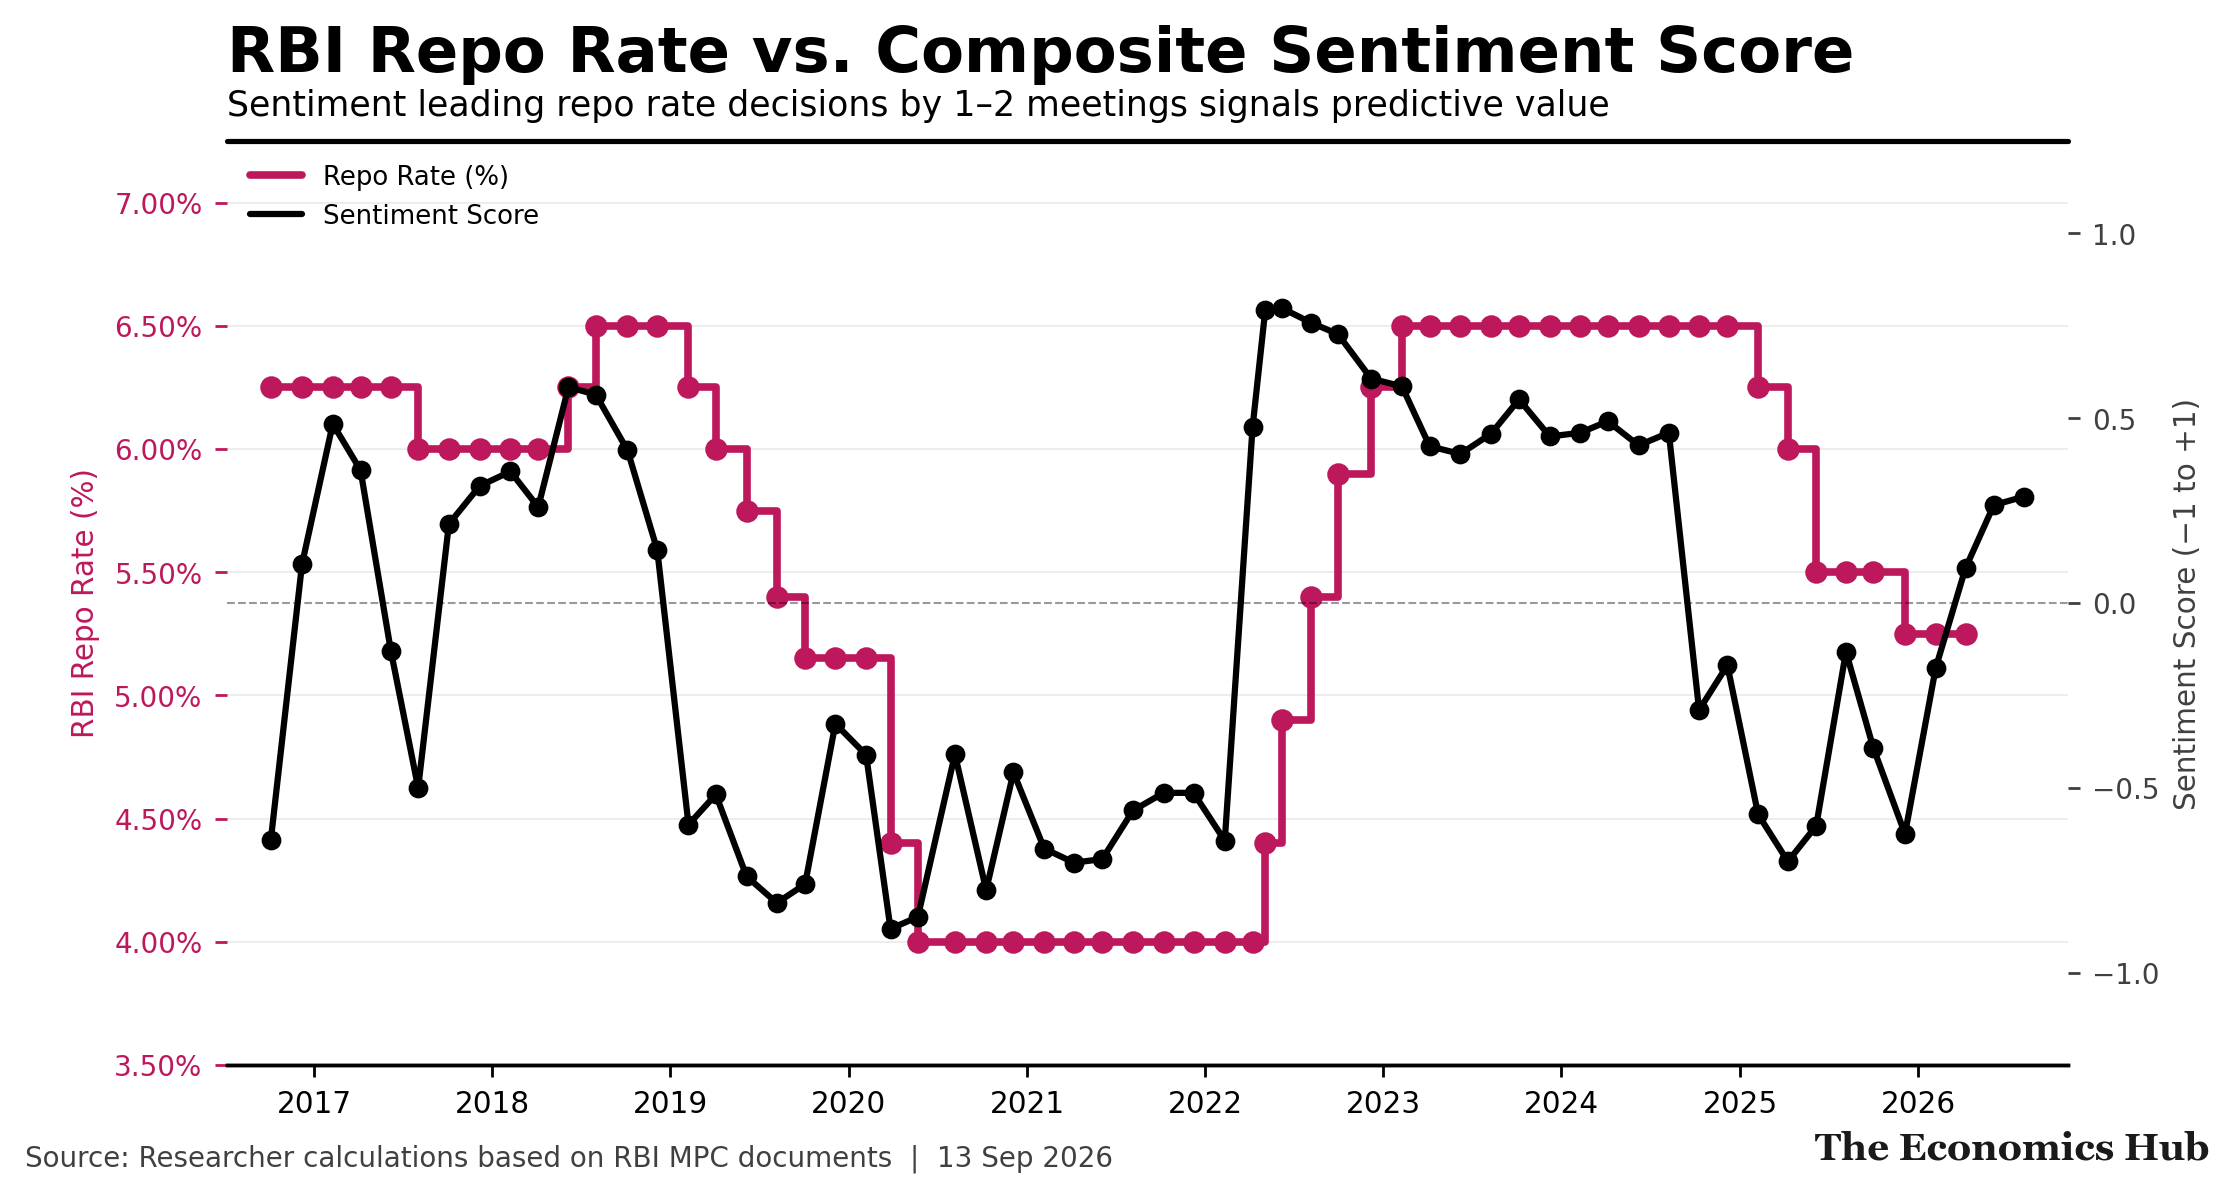
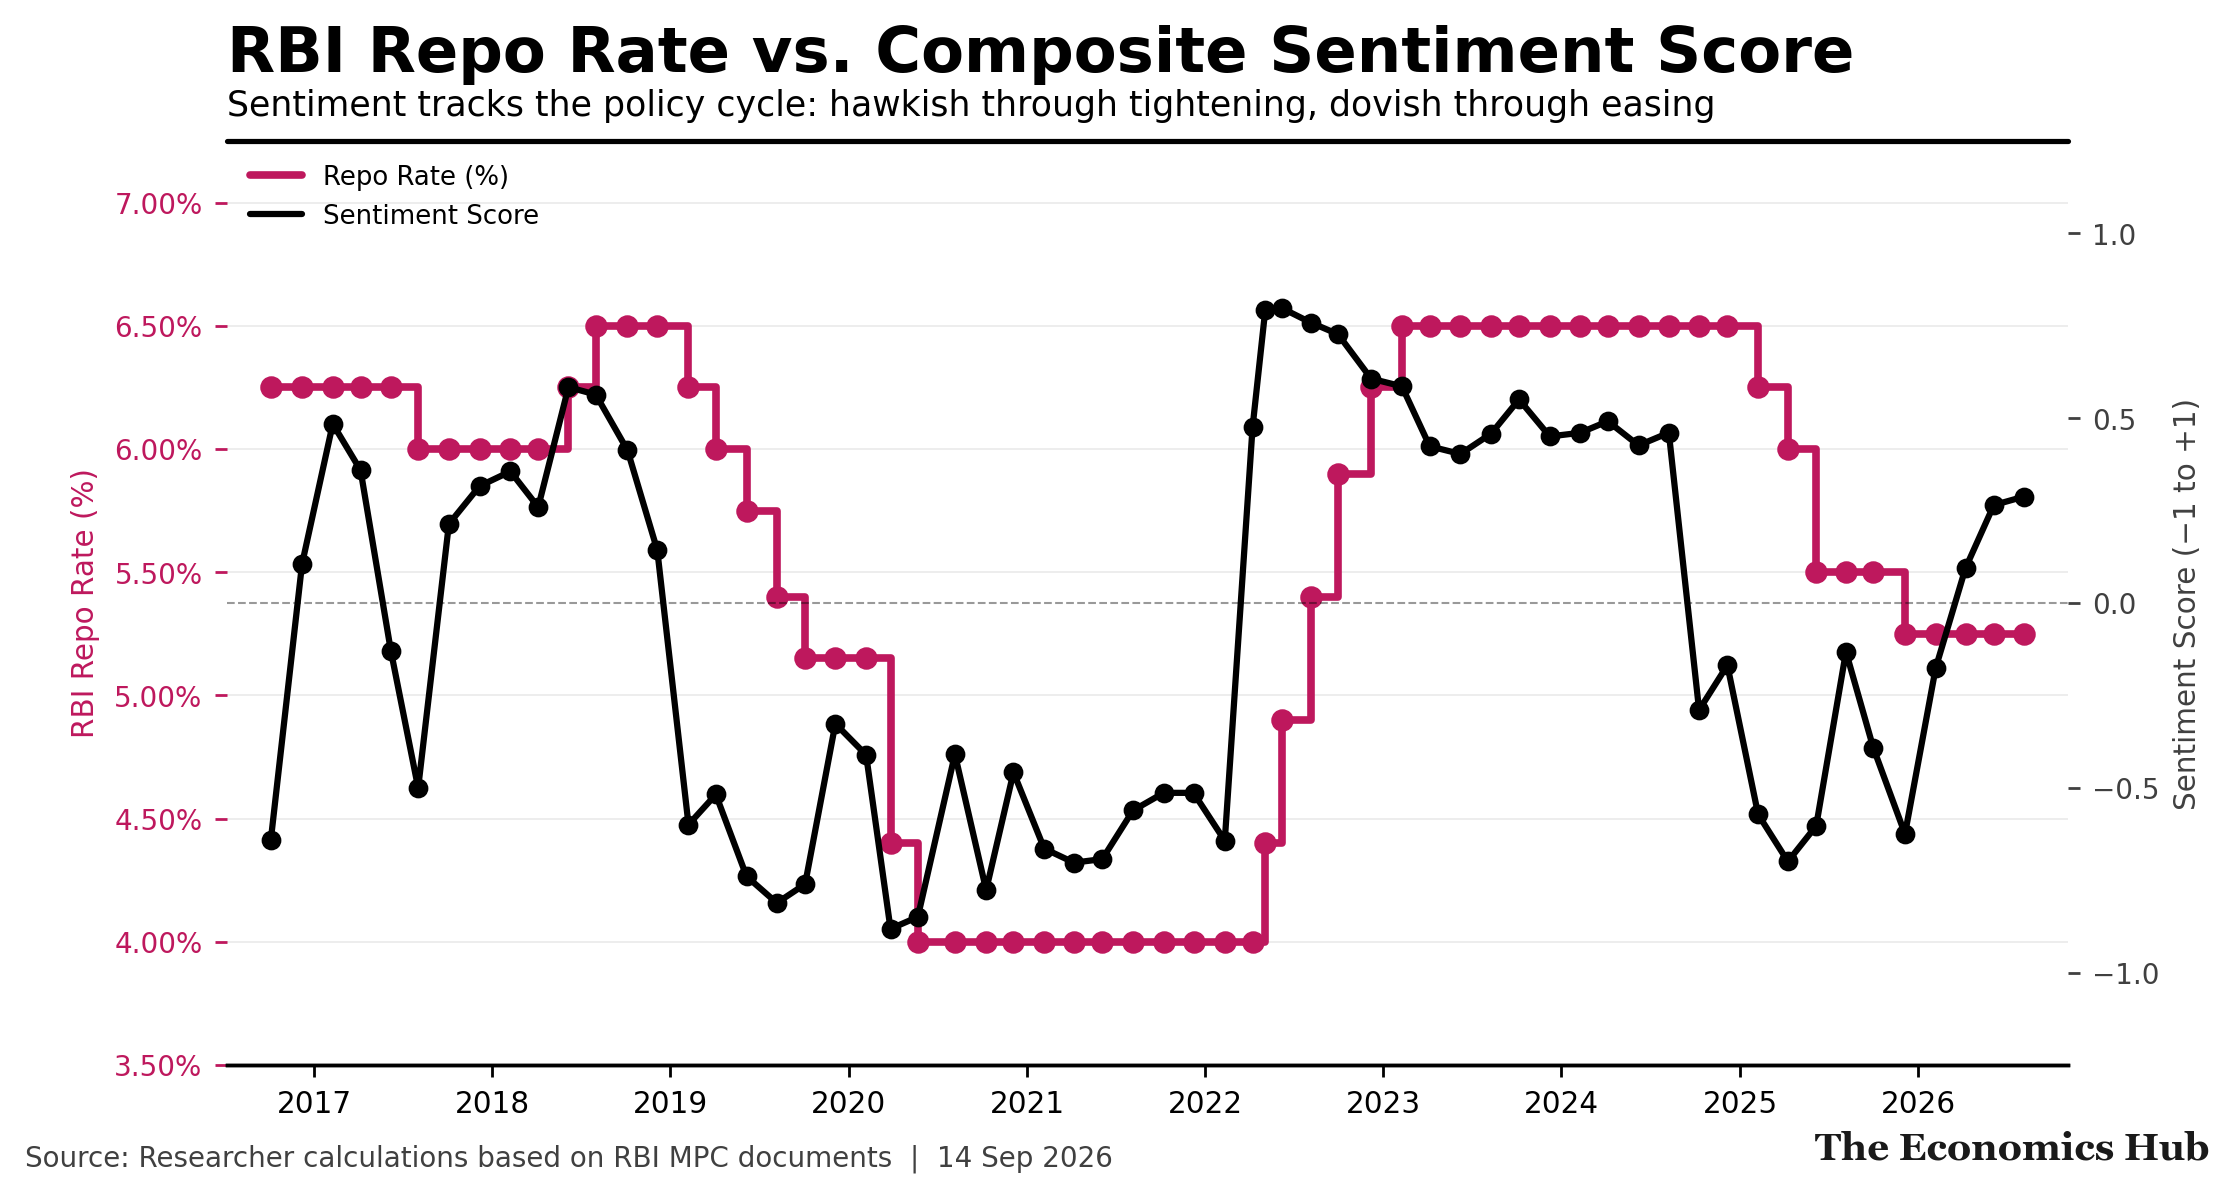
fix(rbi): regenerate stale charts, publish with a data fingerprint
Charts 05 and 06 were drawn before the June and August 2026 holds were
seeded: the repo rate line stopped at April 2026 and the last two timeline
dots rendered in the "no data" grey. All six charts are regenerated from
the current database.

Staleness can no longer go unnoticed
  run_generate_charts now copies the images into assets/rbi_sentinel/ (the
  folder the app and Streamlit Cloud read; ASSETS_DIR was imported but the
  copy was manual) and writes .data_fingerprint, a SHA-256 of every value
  the charts are drawn from (db.chart_data_fingerprint).
  seed_rbi_rates.py calls refresh_charts_if_stale() after seeding, so a new
  rate decision regenerates and republishes the charts in the same step.
  tests/test_rbi_charts_current.py fails if the published fingerprint does
  not match the database.

Chart 05
  Subtitle said sentiment leading decisions by 1-2 meetings "signals
  predictive value". Tested against the stated stance with HAC regressions
  and out-of-sample forecasts, it does not. Now: "Sentiment tracks the
  policy cycle: hawkish through tightening, dovish through easing". The
  insight text is rewritten to match and no longer describes shaded bands
  the chart does not have.

Changed region(s): [[0.1852, 0.0618, 0.7718, 0.1235], [0.8644, 0.525, 0.9262, 0.5559]]

diff --git a/rbi_sentinel/pipeline.py b/rbi_sentinel/pipeline.py
@@ -6,6 +6,7 @@ Called by generate_rbi_sentinel.py. Not invoked directly.
 """
 
 import logging
+import shutil
 import sqlite3
 from collections import Counter
 from datetime import datetime, date
@@ -581,3 +582,52 @@ def run_generate_charts(
     # number with itself and the divergence was damped by construction.
 
     log.info("Charts saved to %s", output_dir)
+    _publish_charts(output_dir)
+
+
+# ── Chart freshness ─────────────────────────────────────────────────────────────
+
+FINGERPRINT_FILE = ".data_fingerprint"
+
+
+def _publish_charts(output_dir: Path) -> None:
+    """
+    Copy freshly generated charts into assets/ — the folder the dashboard and
+    Streamlit Cloud read — and stamp them with the data fingerprint.
+
+    RBI charts have no CI workflow, so this copy used to be manual; forgetting
+    it left the dashboard on old images even after a regeneration.
+    """
+    target = ASSETS_DIR / output_dir.name
+    target.mkdir(parents=True, exist_ok=True)
+    for png in sorted(output_dir.glob("*.png")):
+        shutil.copy2(png, target / png.name)
+    stamp = db.chart_data_fingerprint()
+    for folder in (output_dir, target):
+        (folder / FINGERPRINT_FILE).write_text(stamp + "\n")
+    log.info("Published charts to %s (fingerprint %s)", target, stamp[:12])
+
+
+def latest_published_charts() -> Optional[Path]:
+    """The newest month folder under assets/rbi_sentinel, which the app shows."""
+    folders = sorted(p for p in ASSETS_DIR.glob("20[0-9][0-9]-[01][0-9]") if p.is_dir())
+    return folders[-1] if folders else None
+
+
+def charts_are_current() -> bool:
+    """True when the published charts were drawn from the data now in the DB."""
+    folder = latest_published_charts()
+    if folder is None:
+        return False
+    stamp = folder / FINGERPRINT_FILE
+    return stamp.exists() and stamp.read_text().strip() == db.chart_data_fingerprint()
+
+
+def refresh_charts_if_stale(mode: str = "dashboard") -> bool:
+    """Regenerate and publish the charts if the data has changed. Returns True if it did."""
+    if charts_are_current():
+        log.info("Charts are current; no regeneration needed")
+        return False
+    log.warning("Chart data has changed since the charts were published; regenerating")
+    run_generate_charts(mode=mode)
+    return True

diff --git a/config/insights.py b/config/insights.py
@@ -523,19 +523,19 @@ the committee is approaching a forced pivot: watch for a Resolution score revers
 """,
 
     "rbi_rate_and_sentiment": """\
-**How to read this chart:** The left axis (saffron step line) tracks the RBI repo rate over time. \
-The right axis (black smooth line) tracks the composite sentiment score derived from the MPC \
-documents. Shaded bands identify hawkish (red) and dovish (blue) sentiment regimes. The purpose \
-of overlaying these two series is to test whether the sentiment model leads or lags the actual \
-rate-setting cycle.
+**How to read this chart:** The step line (left axis) is the RBI repo rate; the black line (right \
+axis) is the composite sentiment score for each MPC meeting, from −1 (most dovish) to +1 (most \
+hawkish). The two series sit on different scales, so read the direction and timing of each line \
+rather than the gap between them.
 
-**Practical takeaway:** In multiple historical cycles, the composite sentiment score crossed +0.30 \
-one to two meetings before the first rate hike, and crossed −0.30 before the first rate cut. This \
-lead time exists because the MPC communicates its intent through language shifts in the Minutes and \
-Governor's Statement before the formal rate vote occurs. When the sentiment line diverges sharply \
-from the repo rate step — a sustained positive score during a prolonged hold, or a falling \
-sentiment score while rates remain elevated — the probability of an imminent rate action is \
-elevated.
+**Practical takeaway:** Committee tone moves with the rate cycle — firmly hawkish through the \
+2022–23 tightening and the long hold that followed, dovish through the 2019–20 and 2025 easing \
+cycles. The score is most closely tied to the decision taken at the same meeting (correlation \
+0.72, falling to 0.57 for the next meeting). In formal tests covering every meeting since \
+October 2016 — regressions with robust standard errors and out-of-sample forecasts from 2020 — \
+the composite did not predict the next rate decision beyond what the RBI's own stated stance \
+already signals. Read a gap between tone and policy, such as a hawkish score during a hold, as \
+evidence of how the committee is framing its pause rather than as a forecast of the next move.
 """,
 
     "rbi_meeting_timeline": """\

diff --git a/tests/test_rbi_charts_current.py b/tests/test_rbi_charts_current.py
@@ -1,0 +1,57 @@
+"""
+RBI chart freshness test.
+
+Exists because charts 05 and 06 were published in September 2026 without the
+June and August 2026 holds: the rate data was seeded after the charts were
+drawn, and nothing compared the two. Chart generation now stamps each
+published folder with a fingerprint of the data it used; this test fails if
+the database has changed since.
+
+Fix a failure with:  python generate_rbi_sentinel.py --charts-only
+
+Run:  python -m pytest tests/ -q      (or: python tests/test_rbi_charts_current.py)
+"""
+from __future__ import annotations
+
+import sys
+from pathlib import Path
+
+sys.path.insert(0, str(Path(__file__).resolve().parent.parent))
+
+from rbi_sentinel.db.manager import chart_data_fingerprint
+from rbi_sentinel.pipeline import FINGERPRINT_FILE, charts_are_current, latest_published_charts
+
+
+def test_published_charts_have_a_fingerprint():
+    folder = latest_published_charts()
+    assert folder is not None, "No published RBI chart folder under assets/rbi_sentinel/"
+    assert (folder / FINGERPRINT_FILE).exists(), (
+        f"{folder} has no {FINGERPRINT_FILE}; regenerate with --charts-only"
+    )
+
+
+def test_published_charts_match_database():
+    folder = latest_published_charts()
+    stamp = (folder / FINGERPRINT_FILE).read_text().strip()
+    assert charts_are_current(), (
+        f"Charts in {folder} were drawn from different data "
+        f"(stamp {stamp[:12]}, database {chart_data_fingerprint()[:12]}). "
+        "Run: python generate_rbi_sentinel.py --charts-only"
+    )
+
+
+def test_all_six_charts_published():
+    folder = latest_published_charts()
+    expected = {
+        "01_rbi_stance_meter.png", "02_rbi_sentiment_trajectory.png",
+        "03_rbi_resolution_vs_minutes.png", "04_rbi_subdimension_radar.png",
+        "05_rbi_rate_and_sentiment.png", "06_rbi_meeting_timeline.png",
+    }
+    assert expected <= {p.name for p in folder.glob("*.png")}
+
+
+if __name__ == "__main__":
+    for name, fn in list(globals().items()):
+        if name.startswith("test_"):
+            fn()
+            print(f"ok  {name}")

diff --git a/rbi_sentinel/db/manager.py b/rbi_sentinel/db/manager.py
@@ -5,6 +5,7 @@ SQLite CRUD layer for the RBI Sentinel pipeline.
 All DB access goes through this module — no inline SQL elsewhere.
 """
 
+import hashlib
 import json
 import logging
 import sqlite3
@@ -581,6 +582,39 @@ def get_all_composites(
             (model_version,),
         ).fetchall()
     return [dict(r) for r in rows]
+
+
+def chart_data_fingerprint(
+    model_version: str = SCORING_MODEL_VERSION,
+) -> str:
+    """
+    SHA-256 of every database value the six RBI charts are drawn from:
+    rate decisions, composite and per-document scores, and sub-dimensions.
+
+    Chart generation stamps this next to the images it publishes. A stamp that
+    no longer matches means the data changed after the charts were drawn —
+    which is how the June and August 2026 holds went missing from charts 05
+    and 06 in September 2026.
+    """
+    queries = (
+        """SELECT meeting_date, policy_cycle, repo_rate_pct, rate_action, rate_change_bps
+           FROM mpc_meetings ORDER BY meeting_date""",
+        """SELECT m.meeting_date, k.composite_overall_score, k.resolution_score,
+                  k.minutes_score, k.governor_score
+           FROM meeting_composites k JOIN mpc_meetings m ON m.meeting_id = k.meeting_id
+           WHERE k.scoring_model_version = ? ORDER BY m.meeting_date""",
+        """SELECT d.doc_id, s.overall_score, s.inflation_stance, s.growth_stance,
+                  s.liquidity_stance, s.rate_guidance, s.fx_external_stance
+           FROM sentiment_scores s JOIN rbi_documents d ON d.doc_id = s.doc_id
+           WHERE s.scoring_model_version = ? ORDER BY d.doc_id""",
+    )
+    digest = hashlib.sha256(model_version.encode())
+    with _connect() as conn:
+        for sql in queries:
+            params = (model_version,) if "?" in sql else ()
+            for row in conn.execute(sql, params):
+                digest.update(repr(tuple(row)).encode())
+    return digest.hexdigest()
 
 
 def get_recent_composites(

diff --git a/rbi_sentinel/charts/rate_and_sentiment.py b/rbi_sentinel/charts/rate_and_sentiment.py
@@ -4,7 +4,8 @@ rbi_sentinel/charts/rate_and_sentiment.py
 Chart 05: Repo Rate vs. Sentiment Score
 Dual-axis: repo rate as stepped line (left, India saffron),
 sentiment composite as smooth line (right, black).
-Shows whether sentiment score leads rate decisions.
+Shows how MPC tone moves with the rate cycle. It is descriptive: the composite
+does not predict the next decision beyond the RBI's stated stance.
 """
 
 import logging
@@ -127,14 +128,17 @@ def generate(
     )
 
     # ── Title & branding ──────────────────────────────────────────────────────
+    # The subtitle describes what the chart shows, not a forecasting claim.
+    # Tested in Sep 2026 (HAC regressions, ordered probit, expanding-window
+    # out-of-sample forecasts): the composite correlates most with the decision
+    # in the same meeting and adds no predictive power for the next decision
+    # beyond the RBI's own stated stance.
     if mode == "newsletter":
-        title = "Does Sentiment Lead Rate Decisions?"
-        subtitle = "RBI Repo Rate (saffron, left) vs. MPC Sentiment Score (black, right)"
+        title = "Sentiment and the Policy Cycle"
+        subtitle = "RBI repo rate (left) vs. MPC composite sentiment score (right)"
     else:
         title = "RBI Repo Rate vs. Composite Sentiment Score"
-        subtitle = (
-            "Sentiment leading repo rate decisions by 1–2 meetings signals predictive value"
-        )
+        subtitle = "Sentiment tracks the policy cycle: hawkish through tightening, dovish through easing"
 
     EconStyle.add_top_rule(ax1)
     EconStyle.set_title(ax1, title, subtitle)

diff --git a/seed_rbi_rates.py b/seed_rbi_rates.py
@@ -116,3 +116,15 @@ def seed():
 
 if __name__ == "__main__":
     seed()
+
+    # A rate change alters charts 05 and 06. Regenerate and publish the charts
+    # whenever the data no longer matches what they were drawn from, so a new
+    # decision can never reach the database without reaching the dashboard.
+    import logging
+    logging.basicConfig(level=logging.INFO, format="%(levelname)s %(message)s")
+    from rbi_sentinel.pipeline import refresh_charts_if_stale
+
+    if refresh_charts_if_stale():
+        print("Rate data changed: charts regenerated and published to assets/rbi_sentinel/.")
+    else:
+        print("Charts already reflect the current rate data.")
